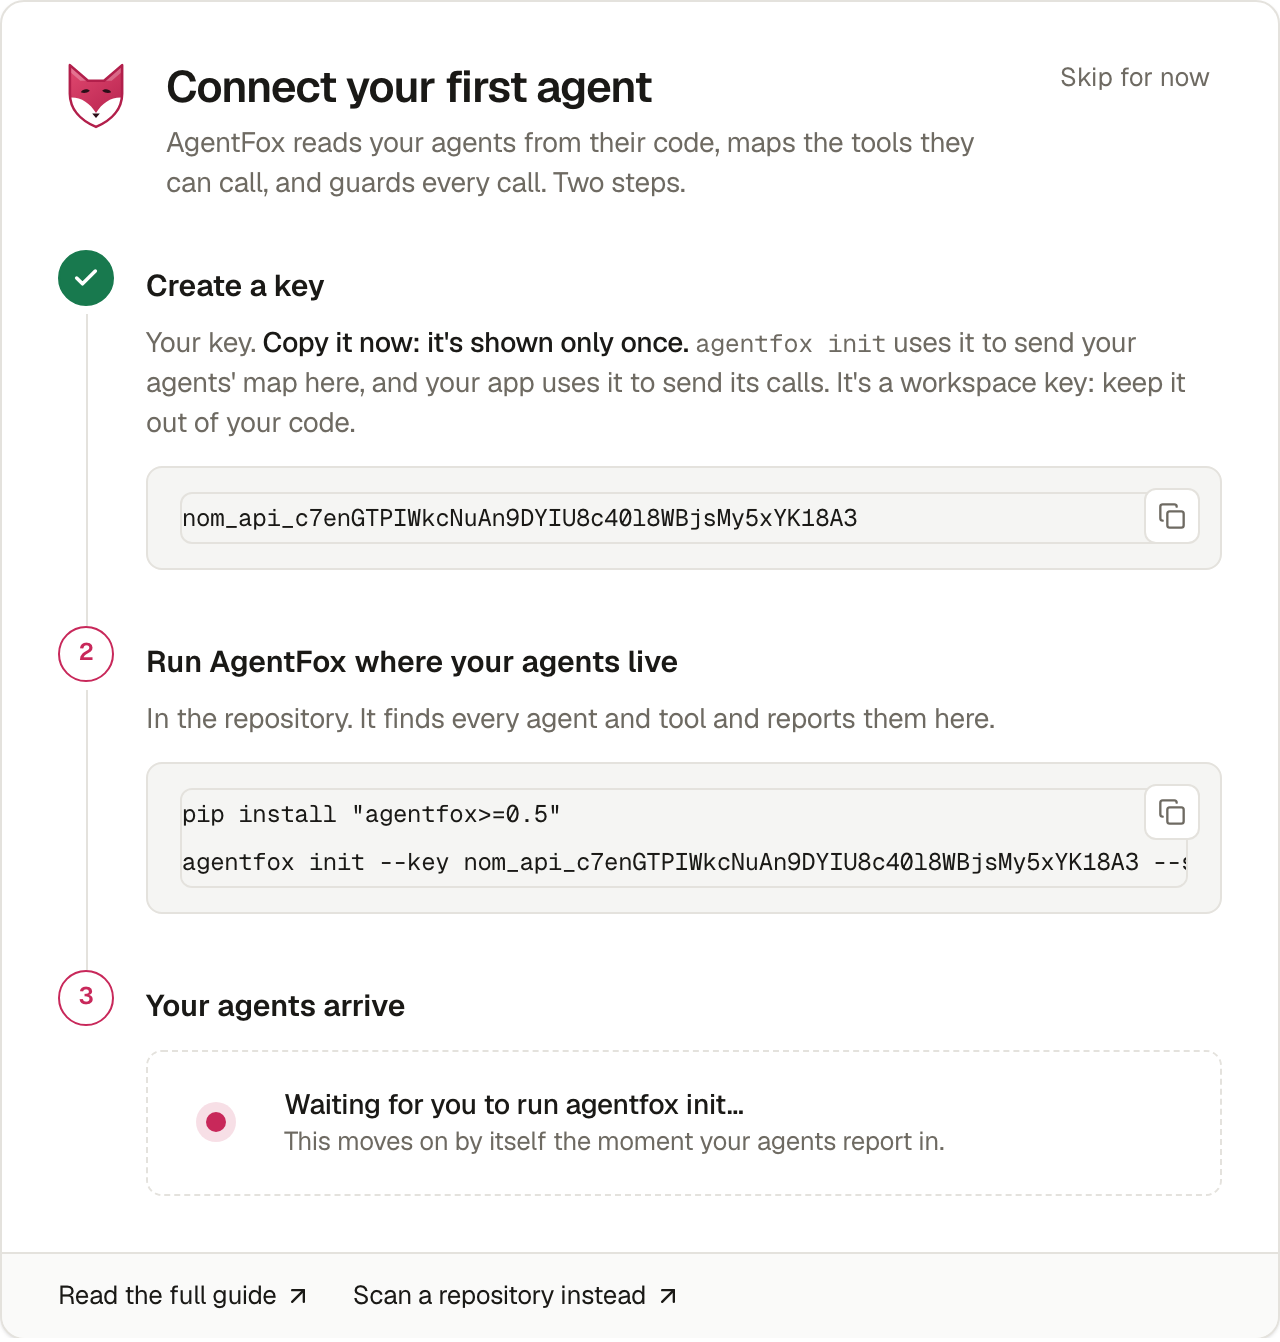
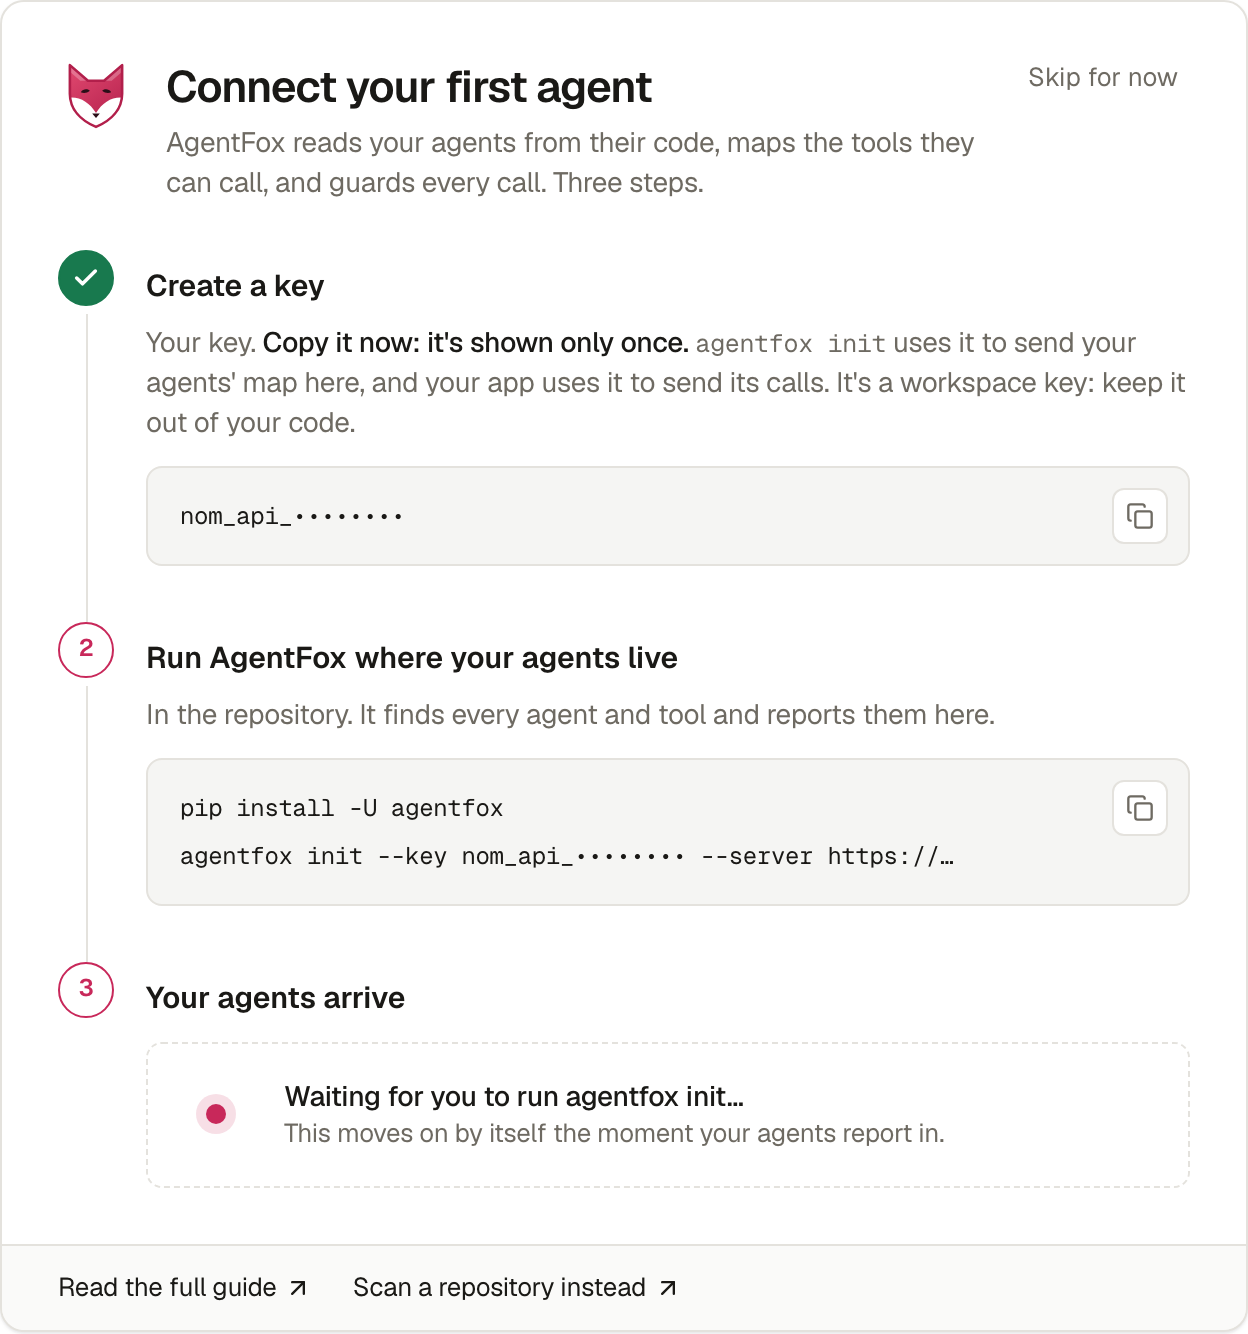
Re-capture setup-key.png with the key masked; onboarding card fixes
- docs/screens/setup-key.png showed a complete nom_api_ key and a clipped init
  command. Re-captured from a fresh local workspace with the key replaced by
  nom_api_•••••••• and the server by https://…, the command wrapping.
- Onboarding card: 'Three steps' (it shows three), commands wrap instead of
  scrolling sideways, the step that comes alive scrolls into view, and no second
  border inside the code box (.shell .tw pre).

diff --git a/dashboard/components/product/onboarding/SetupCard.tsx b/dashboard/components/product/onboarding/SetupCard.tsx
@@ -260,6 +260,14 @@ export function SetupCard({
     }
   };
 
+  // Each step that comes alive (the command after a key, the agents after init
+  // reports in) can be below the fold on a laptop, so bring it into view.
+  const stepRef = useRef<HTMLDivElement | null>(null);
+  useEffect(() => {
+    if (phase === "key") return;
+    stepRef.current?.scrollIntoView({ behavior: "smooth", block: "nearest" });
+  }, [phase]);
+
   const shownKey = key ?? "<your-key>";
   // A key exists, shown now or earlier: the next steps can go ahead.
   const haveKey = Boolean(key || keyInfo?.hasKey);
@@ -274,7 +282,7 @@ export function SetupCard({
               {hasProjects ? "Connect a new project" : "Connect your first agent"}
             </h1>
             <p className="mt-1 text-muted-foreground">
-              AgentFox reads your agents from their code, maps the tools they can call, and guards every call. Two steps.
+              AgentFox reads your agents from their code, maps the tools they can call, and guards every call. Three steps.
             </p>
           </div>
           {!hasProjects && (
@@ -377,7 +385,7 @@ export function SetupCard({
             <Install keyText={shownKey} server={server} muted={!key} />
           </Step>
 
-          <Step n={3} title="Your agents arrive" state={phase === "done" ? "done" : haveKey ? "active" : "todo"} last>
+          <Step n={3} title="Your agents arrive" state={phase === "done" ? "done" : haveKey ? "active" : "todo"} last anchor={stepRef}>
             {!haveKey ? (
               <p className="text-muted-foreground">Appears here the moment init reports in.</p>
             ) : phase === "waiting" ? (
@@ -426,12 +434,14 @@ function Step({
   title,
   state,
   last,
+  anchor,
   children,
 }: {
   n: number;
   title: string;
   state: "todo" | "active" | "done";
   last?: boolean;
+  anchor?: React.Ref<HTMLDivElement>;
   children: React.ReactNode;
 }) {
   return (
@@ -448,7 +458,7 @@ function Step({
       >
         {state === "done" ? <Check className="size-3.5" strokeWidth={3} /> : n}
       </span>
-      <div className={cn("pb-7", last && "pb-0")}>
+      <div ref={anchor} className={cn("pb-7", last && "pb-0")}>
         <h2 className="mb-1 pt-1 text-[15px] font-semibold">{title}</h2>
         {children}
       </div>
@@ -474,7 +484,7 @@ function Code({ text, className, muted }: { text: string; className?: string; mu
   const [copied, setCopied] = useState(false);
   return (
     <div className={cn("relative rounded-lg border bg-muted px-4 py-3", className)}>
-      <pre className={cn("overflow-x-auto pr-10 font-mono text-[12.5px] leading-6 whitespace-pre", muted && "text-muted-foreground")}>{text}</pre>
+      <pre className={cn("pr-10 font-mono text-[12.5px] leading-6 whitespace-pre-wrap [overflow-wrap:anywhere]", muted && "text-muted-foreground")}>{text}</pre>
       <button
         type="button"
         aria-label={copied ? "Copied" : "Copy"}

diff --git a/dashboard/app/af-theme.css b/dashboard/app/af-theme.css
@@ -238,6 +238,9 @@ nav.side .side-foot .theme-toggle { margin: 0; padding: 0; border: 0; }
 .shell .card .l { font-size: 12px; color: var(--af-muted); }
 .shell .card.bad, .shell .card.warn, .shell .card.ok { background: var(--af-surface); border-color: var(--af-line); }
 .shell pre { background: var(--af-subtle); border: 1px solid var(--af-line); border-radius: var(--af-r-control); font-size: 12px; }
+/* Tailwind-built components draw their own box around a <pre> (tw-reset.css); the
+   rule above would put a second border inside it. */
+.shell .tw pre { background: transparent; border: 0; border-radius: 0; }
 
 /* ── Tables: subtle header band, 40px rows, hairlines ──────────────────────── */
 :where(.shell) table { font-size: 13px; }

diff --git a/dashboard/lib/docs/screens.ts b/dashboard/lib/docs/screens.ts
@@ -11,9 +11,9 @@ export type Screen = { src: string; alt: string; width: number; height: number }
 export const SCREENS = {
   setupKey: {
     src: "/docs/screens/setup-key.png",
-    alt: "The Connect your first agent card. Step 1, Create a key, shows a new workspace key with a copy button. Step 2 shows the pip install and agentfox init --key command with that key filled in.",
-    width: 1280,
-    height: 1342,
+    alt: "The Connect your first agent card. Step 1, Create a key, shows a new workspace key (masked here) with a copy button. Step 2 shows pip install -U agentfox and the agentfox init --key --server command with that key filled in.",
+    width: 1248,
+    height: 1334,
   },
   agentsArrive: {
     src: "/docs/screens/agents-arrive.png",
